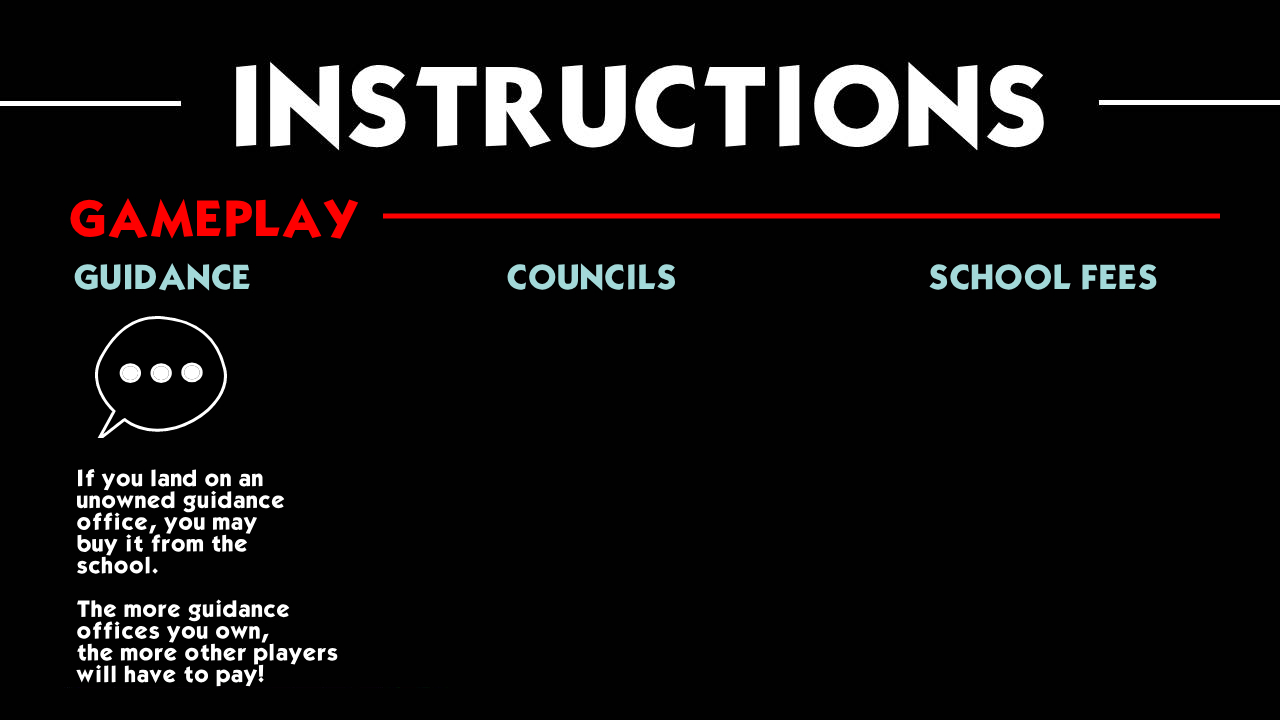
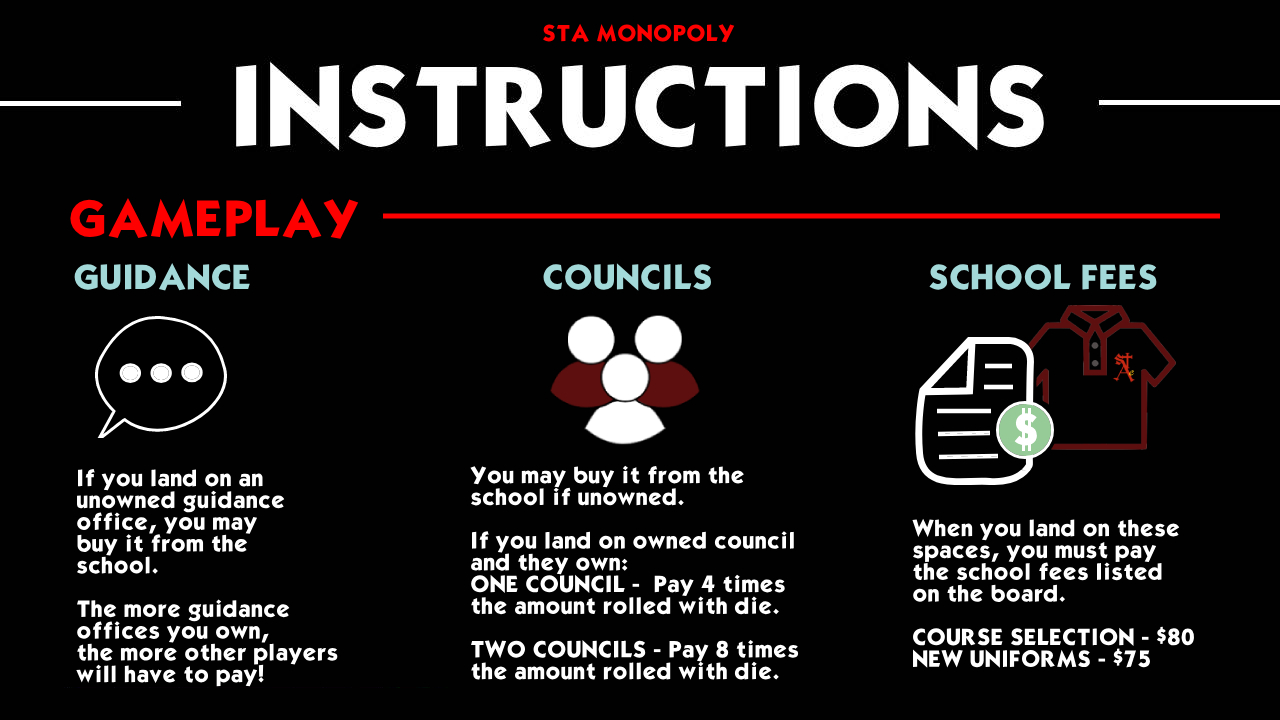
Completed page 4 of instructions screen jpg

diff --git a/monopolyinstructions.java b/monopolyinstructions.java
@@ -11,6 +11,7 @@ public class monopolyinstructions extends JPanel{
 	BufferedImage page1;
 	BufferedImage page2;
 	BufferedImage page3;
+	BufferedImage page4;
 	public JButton backtomain;
 	public JButton topage2;
 	public JButton backtopage1;
@@ -21,6 +22,7 @@ public class monopolyinstructions extends JPanel{
 	boolean blnpage1 = true;
 	boolean blnpage2 = false;
 	boolean blnpage3 = false;
+	boolean blnpage4 = false;
 	
 	//-initialize
 
@@ -89,6 +91,7 @@ public class monopolyinstructions extends JPanel{
 			page1 = ImageIO.read(new File("instructions.jpg"));
 			page2 = ImageIO.read(new File("instructions2.jpg"));
 			page3 = ImageIO.read(new File("instructions3.jpg"));
+			page4 = ImageIO.read(new File("instructions4.jpg"));
 			title = new Font("kabel.ttf", Font.PLAIN, 12);
 		}
 		catch(IOException e){
